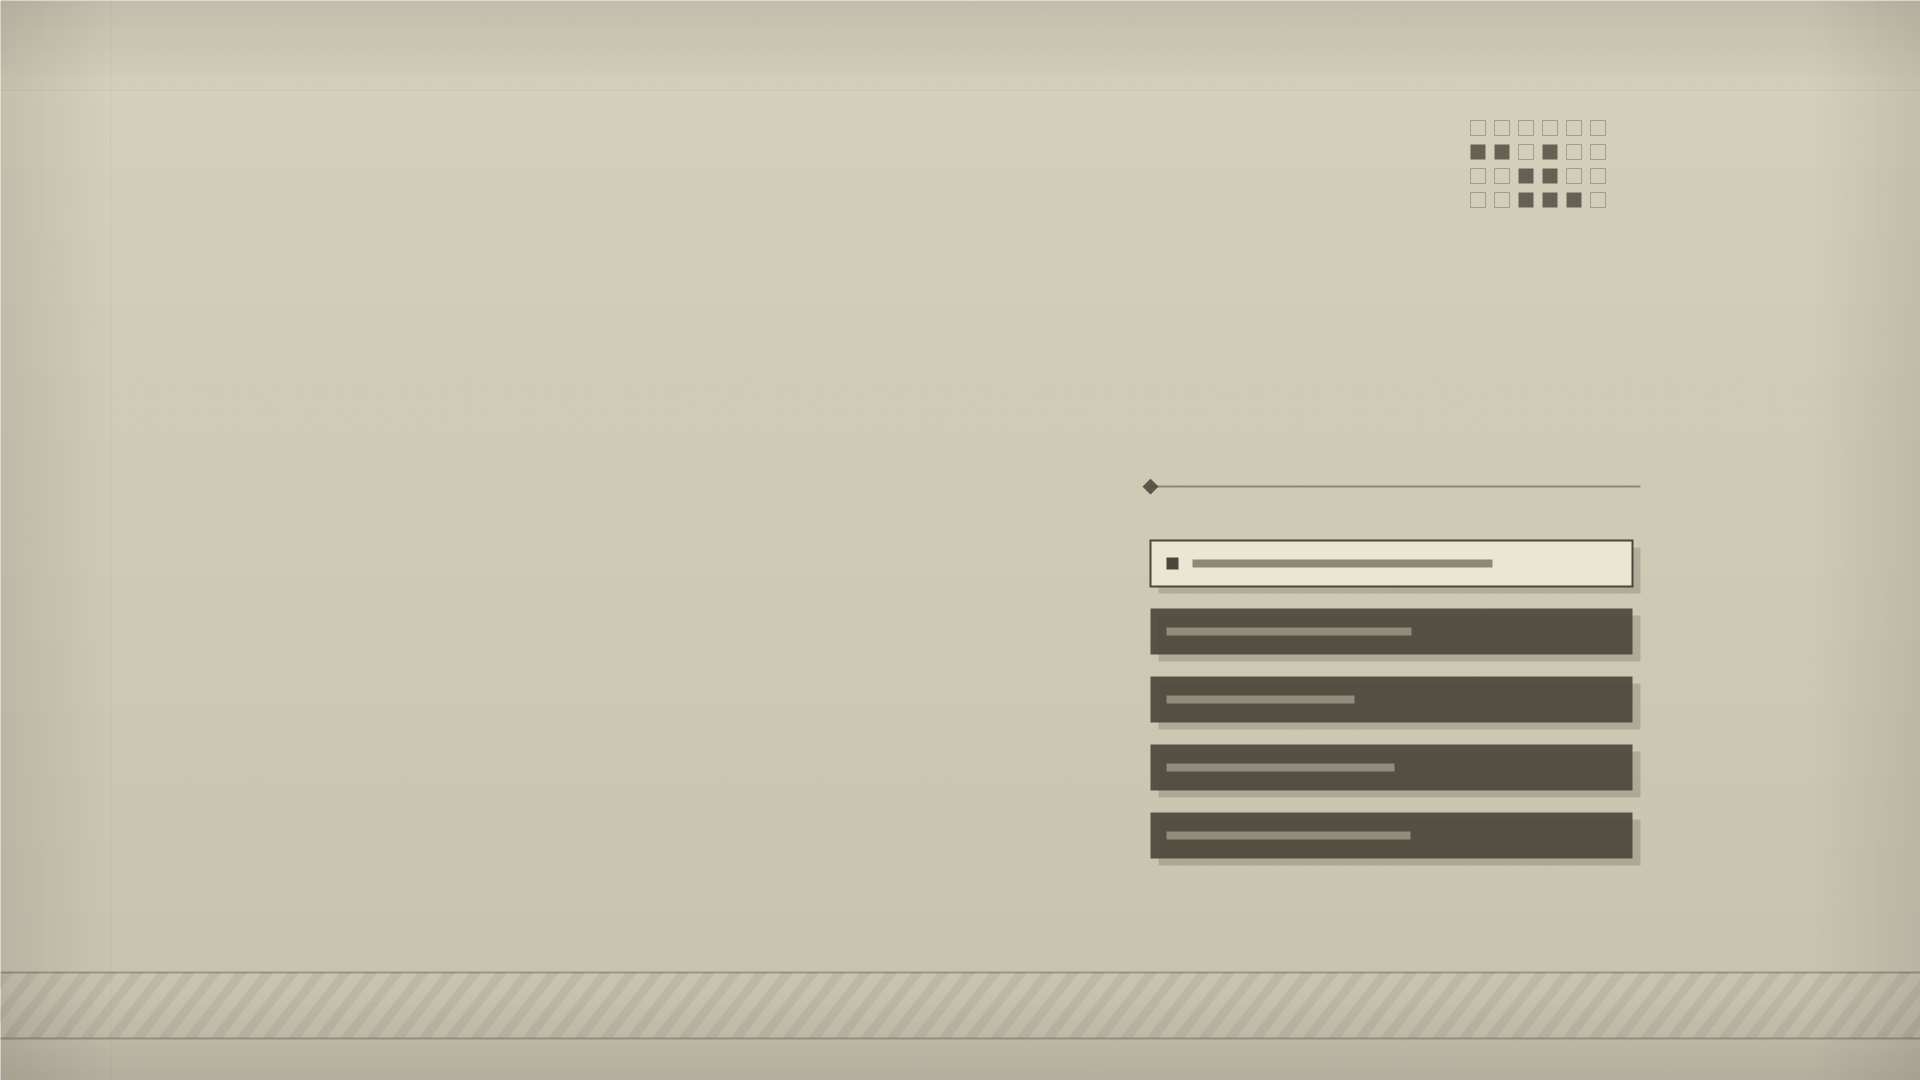
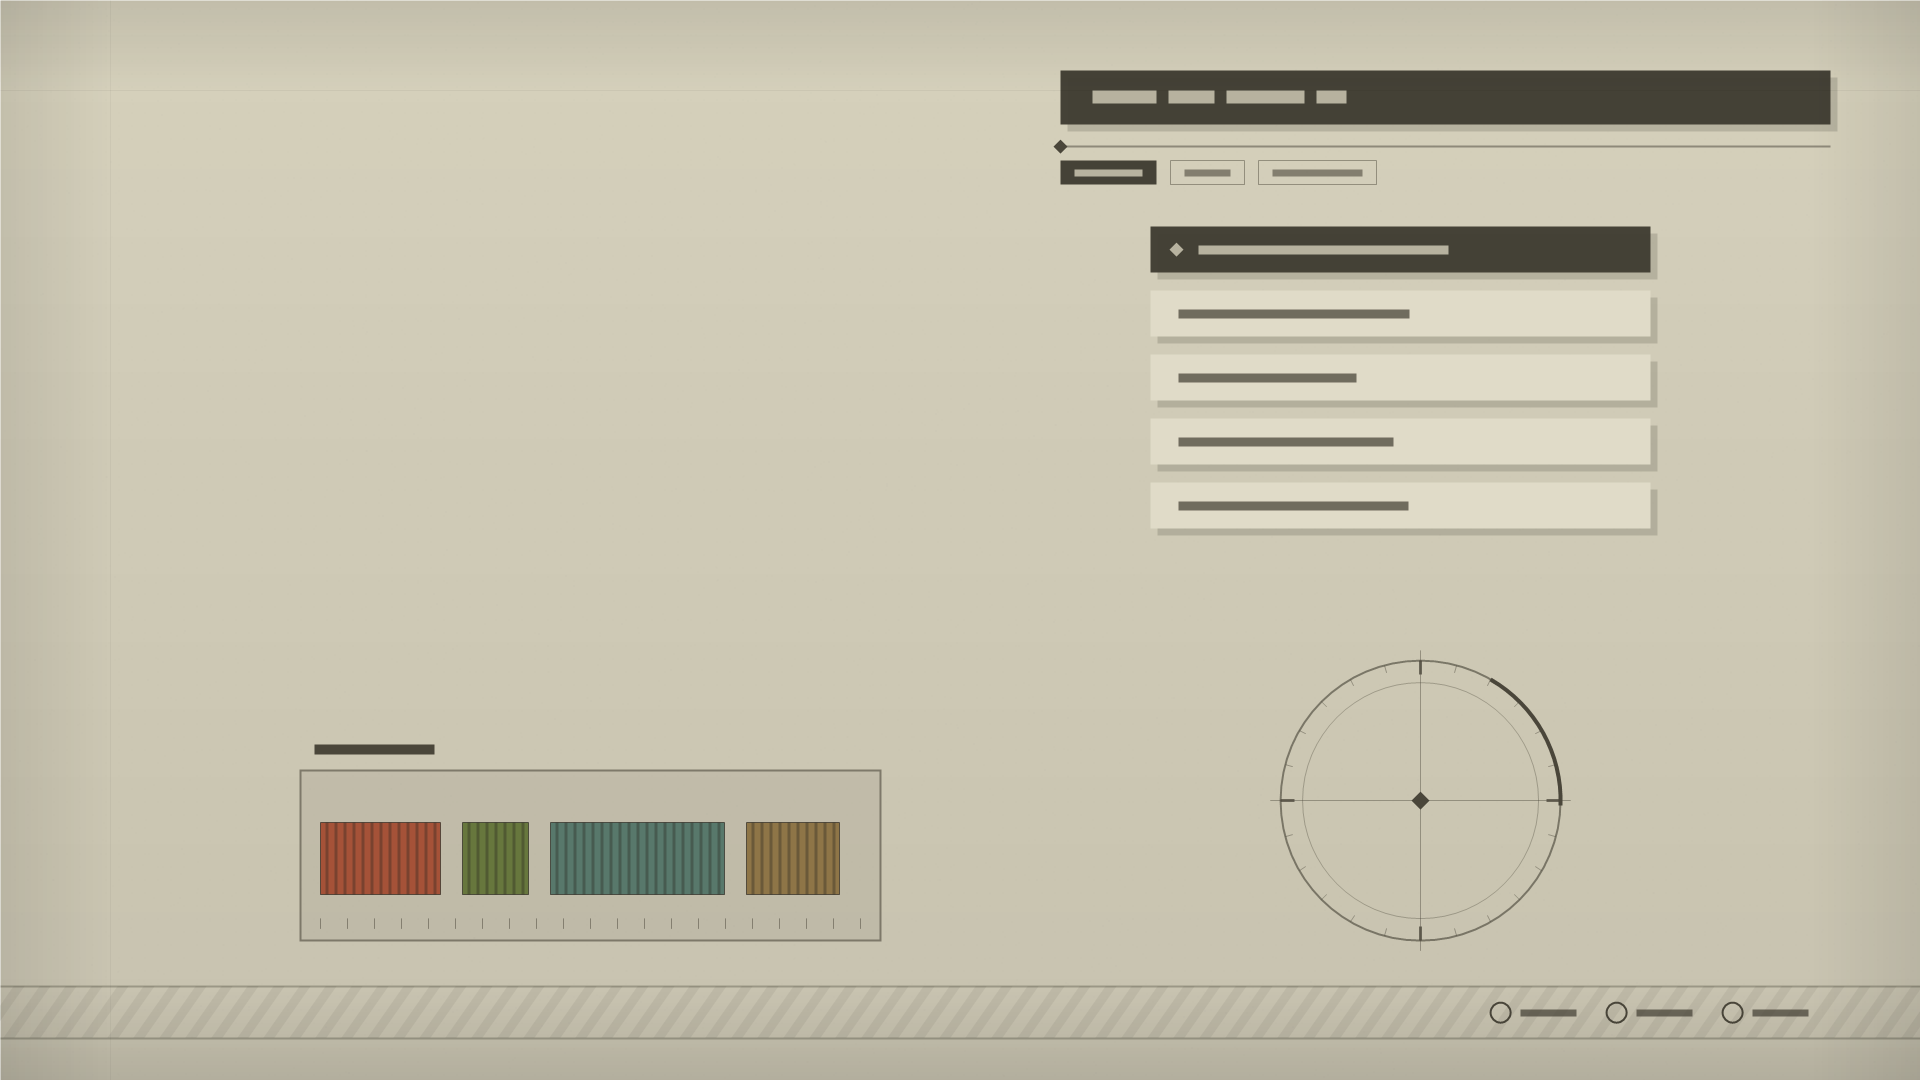
NieR v2: researched menu anatomy replaces the generic bar mockup
From the UI breakdowns: the menus are all beige with muddy dark
header blocks and an inverted dark selection bar, so the selected
row is now dark with a light dash and diamond bullet (v1 had it
backwards), under a proper header block with letter-spaced dashes
and tag chips. Added the chip inventory - colored striped chips of
varying widths plugged onto a slot ruler - the one splash of color
in the game's UI, plus a restrained ring gauge with crosshair,
diamond hub, and arc highlight, and button-hint pairs in the stripe
footer. Cursor style moves to block to match the inverted-selection
feel. Contrast audit passes all 27.

diff --git a/src/main.ts b/src/main.ts
@@ -1133,7 +1133,7 @@ THEMES.pipboy.xterm.selectionBackground = "#1aff8033";
 THEMES.nier = mkTheme(
   "NieR",
   "black",
-  ['"Cascadia Mono", Consolas, monospace', 1.2, "underline"],
+  ['"Cascadia Mono", Consolas, monospace', 1.2, "block"],
   'linear-gradient(rgba(214,209,188,0.35), rgba(214,209,188,0.48)), url("/backgrounds/nier.png") center / cover no-repeat, linear-gradient(180deg, #d6d1bc, #c7c2af)',
   "#d1ccb5",
   "#454138",
